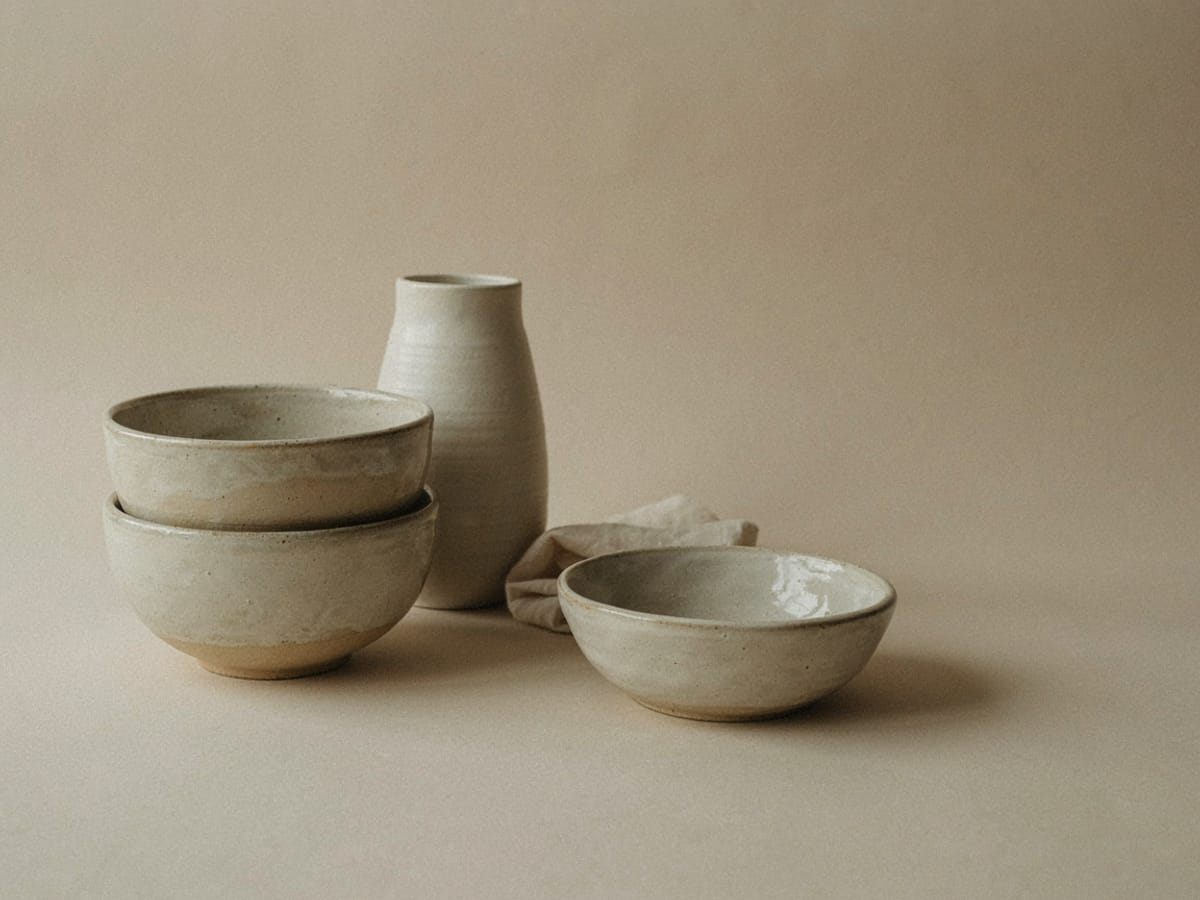
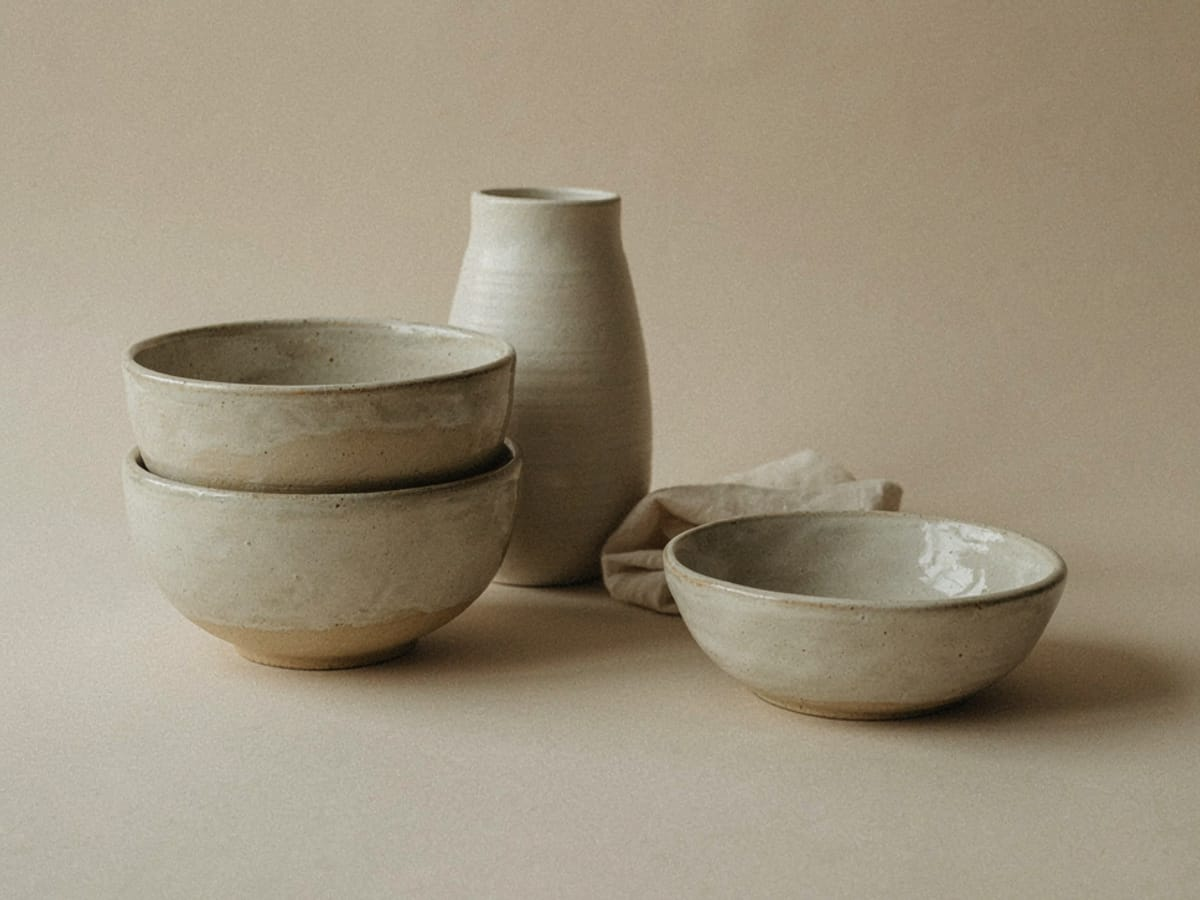
Center the ceramics photo; slower floating motion

Changed region(s): [[0.0925, 0.1867, 1.0, 0.84]]

diff --git a/src/app/globals.css b/src/app/globals.css
@@ -199,7 +199,7 @@ a:hover > .arrow-slide {
     transform: translateY(0) rotate(var(--r, 0deg));
   }
   50% {
-    transform: translateY(-14px) rotate(calc(var(--r, 0deg) + 1.5deg));
+    transform: translateY(-10px) rotate(calc(var(--r, 0deg) + 1.1deg));
   }
 }
 
@@ -229,7 +229,7 @@ a:hover > .arrow-slide {
 }
 
 .float {
-  animation: float 7s ease-in-out infinite;
+  animation: float 11s ease-in-out infinite;
 }
 
 /* პატარა ბარათებზე (ლენდინგის მარჯვენა ორი ბარათი) უფრო ნაზი და ნელი მცურავი მოძრაობა */
@@ -244,7 +244,7 @@ a:hover > .arrow-slide {
 }
 
 .float-soft {
-  animation: float-soft 10s ease-in-out infinite;
+  animation: float-soft 14s ease-in-out infinite;
 }
 
 /* ილუსტრაციები (კატეგორიების სცენები) ნელა ირხევა და ციმციმებს: ყველგან, სადაც CategoryArt გამოიყენება */

diff --git a/src/data/categoryPhotos.ts b/src/data/categoryPhotos.ts
@@ -8,7 +8,7 @@ const photo = (slug: string, focal = "50% 50%"): CategoryPhoto => ({ src: `/cate
 export const categoryPhotos: Record<string, CategoryPhoto> = {
   nakhatebi: photo("nakhatebi"),
   posterebi: photo("posterebi"),
-  keramika: photo("keramika", "35% 55%"),
+  keramika: photo("keramika"),
   skulptura: photo("skulptura"),
   samkauli: photo("samkauli"),
   // ძველი გასაღები „ბეჭდები“ (ბანერებზე): ცალკე სურათი, რომ სამკაულთან ერთნაირი არ იყოს
